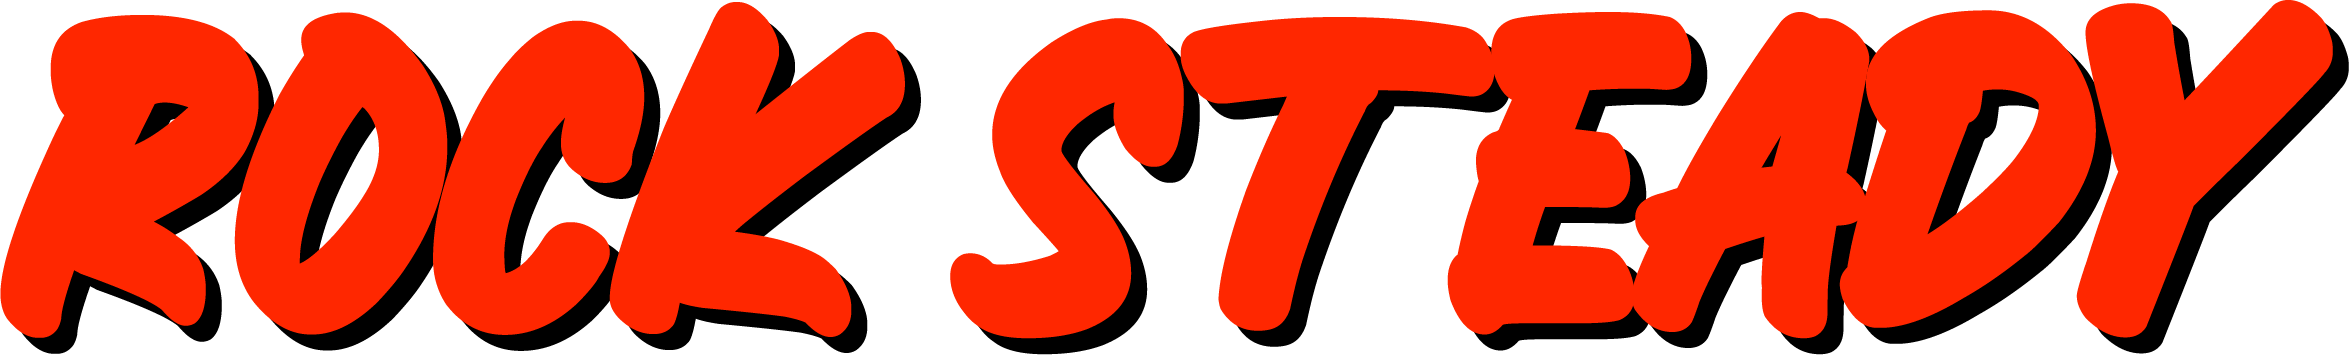
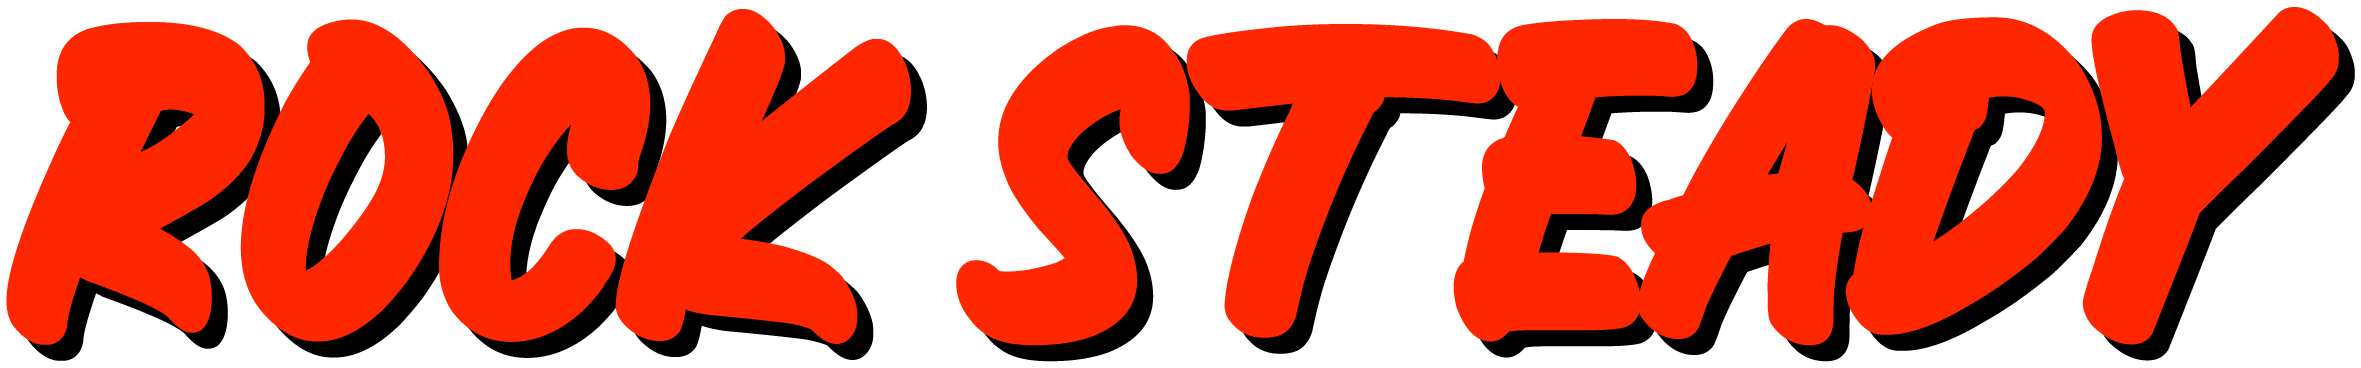
Add active-section nav, mobile menu, and full footer
- Highlight the current section in the nav via IntersectionObserver
- Add a mobile hamburger menu (desktop nav hidden below md)
- Replace the bare footer with logo, Facebook/Instagram/email links,
  and the kept slogan
- Extract shared Facebook/Instagram/Mail SVGs into SocialIcons

diff --git a/src/app/components/ShrinkingHeader.tsx b/src/app/components/ShrinkingHeader.tsx
@@ -4,14 +4,16 @@ import Image from "next/image";
 import { useEffect, useState } from "react";
 
 const navLinks = [
-  { href: "#shows", label: "Shows" },
-  { href: "#music", label: "Music" },
-  { href: "#photos", label: "Photos" },
-  { href: "#booking", label: "Booking" },
+  { href: "#shows", id: "shows", label: "Shows" },
+  { href: "#music", id: "music", label: "Music" },
+  { href: "#photos", id: "photos", label: "Photos" },
+  { href: "#booking", id: "booking", label: "Booking" },
 ];
 
 export function ShrinkingHeader() {
   const [isScrolled, setIsScrolled] = useState(false);
+  const [activeId, setActiveId] = useState("");
+  const [menuOpen, setMenuOpen] = useState(false);
 
   useEffect(() => {
     const updateHeader = () => {
@@ -23,6 +25,39 @@ export function ShrinkingHeader() {
 
     return () => window.removeEventListener("scroll", updateHeader);
   }, []);
+
+  useEffect(() => {
+    const sections = navLinks
+      .map((link) => document.getElementById(link.id))
+      .filter((el): el is HTMLElement => el !== null);
+
+    const observer = new IntersectionObserver(
+      (entries) => {
+        entries.forEach((entry) => {
+          if (entry.isIntersecting) {
+            setActiveId(entry.target.id);
+          }
+        });
+      },
+      { rootMargin: "-45% 0px -50% 0px", threshold: 0 },
+    );
+
+    sections.forEach((section) => observer.observe(section));
+
+    return () => observer.disconnect();
+  }, []);
+
+  // Close the mobile menu once the viewport grows to the desktop nav.
+  useEffect(() => {
+    if (!menuOpen) return;
+
+    const closeOnDesktop = () => {
+      if (window.innerWidth >= 768) setMenuOpen(false);
+    };
+
+    window.addEventListener("resize", closeOnDesktop);
+    return () => window.removeEventListener("resize", closeOnDesktop);
+  }, [menuOpen]);
 
   return (
     <header
@@ -73,21 +108,85 @@ export function ShrinkingHeader() {
 
         <nav
           aria-label="Main navigation"
-          className={`flex flex-wrap items-center justify-center gap-1 text-[0.7rem] font-black uppercase sm:gap-2 sm:text-xs ${
+          className={`hidden items-center justify-center gap-1 text-[0.7rem] font-black uppercase sm:gap-2 sm:text-xs md:flex ${
             isScrolled ? "max-w-[70vw]" : "max-w-full"
           }`}
         >
-          {navLinks.map((link) => (
-            <a
-              key={link.href}
-              href={link.href}
-              className="rounded-full border border-white/15 bg-black/35 px-3 py-2 text-white transition hover:border-[#ff2b1f] hover:bg-[#ff2b1f] focus:outline-none focus:ring-2 focus:ring-[#ffcf33]"
-            >
-              {link.label}
-            </a>
-          ))}
+          {navLinks.map((link) => {
+            const isActive = activeId === link.id;
+            return (
+              <a
+                key={link.href}
+                href={link.href}
+                aria-current={isActive ? "true" : undefined}
+                className={`rounded-full border px-3 py-2 transition focus:outline-none focus:ring-2 focus:ring-[#ffcf33] ${
+                  isActive
+                    ? "border-[#ff2b1f] bg-[#ff2b1f] text-white"
+                    : "border-white/15 bg-black/35 text-white hover:border-[#ff2b1f] hover:bg-[#ff2b1f]"
+                }`}
+              >
+                {link.label}
+              </a>
+            );
+          })}
         </nav>
+
+        <button
+          type="button"
+          aria-label={menuOpen ? "Close menu" : "Open menu"}
+          aria-expanded={menuOpen}
+          aria-controls="mobile-menu"
+          onClick={() => setMenuOpen((open) => !open)}
+          className="absolute right-4 top-4 flex h-10 w-10 items-center justify-center rounded-full border border-white/15 bg-black/40 text-white transition hover:border-[#ff2b1f] hover:bg-[#ff2b1f] focus:outline-none focus:ring-2 focus:ring-[#ffcf33] sm:right-6 md:hidden"
+        >
+          <svg
+            viewBox="0 0 24 24"
+            aria-hidden="true"
+            fill="none"
+            stroke="currentColor"
+            strokeWidth="2.5"
+            strokeLinecap="round"
+            className="h-5 w-5"
+          >
+            {menuOpen ? (
+              <path d="M6 6l12 12M18 6L6 18" />
+            ) : (
+              <path d="M4 7h16M4 12h16M4 17h16" />
+            )}
+          </svg>
+        </button>
       </div>
+
+      <nav
+        id="mobile-menu"
+        aria-label="Mobile navigation"
+        className={`absolute left-0 top-full w-full origin-top border-b border-white/10 bg-[#060606]/97 backdrop-blur-md transition-all duration-300 md:hidden ${
+          menuOpen
+            ? "pointer-events-auto translate-y-0 opacity-100"
+            : "pointer-events-none -translate-y-2 opacity-0"
+        }`}
+      >
+        <div className="flex flex-col gap-2 px-4 py-4 text-sm font-black uppercase sm:px-6">
+          {navLinks.map((link) => {
+            const isActive = activeId === link.id;
+            return (
+              <a
+                key={link.href}
+                href={link.href}
+                aria-current={isActive ? "true" : undefined}
+                onClick={() => setMenuOpen(false)}
+                className={`rounded-2xl border px-4 py-3 transition focus:outline-none focus:ring-2 focus:ring-[#ffcf33] ${
+                  isActive
+                    ? "border-[#ff2b1f] bg-[#ff2b1f] text-white"
+                    : "border-white/12 bg-black/35 text-white hover:border-[#ff2b1f] hover:bg-[#ff2b1f]"
+                }`}
+              >
+                {link.label}
+              </a>
+            );
+          })}
+        </div>
+      </nav>
     </header>
   );
 }

diff --git a/src/app/page.tsx b/src/app/page.tsx
@@ -1,5 +1,10 @@
 import Image from "next/image";
 import { ShrinkingHeader } from "./components/ShrinkingHeader";
+import {
+  FacebookIcon,
+  InstagramIcon,
+  MailIcon,
+} from "./components/SocialIcons";
 import { absoluteUrl, siteConfig } from "./seo";
 
 const gallery = [
@@ -360,13 +365,7 @@ export default function Home() {
                   aria-label="Rock Steady on Facebook"
                   className="inline-flex items-center gap-2 rounded-full bg-[#1877F2] px-5 py-3 text-sm font-black uppercase text-white transition hover:brightness-110 focus:outline-none focus:ring-2 focus:ring-[#ffcf33]"
                 >
-                  <svg
-                    viewBox="0 0 24 24"
-                    aria-hidden="true"
-                    className="h-5 w-5 fill-current"
-                  >
-                    <path d="M24 12.073C24 5.404 18.627 0 12 0S0 5.404 0 12.073C0 18.1 4.388 23.094 10.125 24v-8.437H7.078v-3.49h3.047V9.412c0-3.025 1.792-4.697 4.533-4.697 1.313 0 2.686.236 2.686.236v2.97h-1.513c-1.491 0-1.956.93-1.956 1.886v2.265h3.328l-.532 3.49h-2.796V24C19.612 23.094 24 18.1 24 12.073z" />
-                  </svg>
+                  <FacebookIcon className="h-5 w-5 fill-current" />
                   Facebook
                 </a>
                 <a
@@ -376,13 +375,7 @@ export default function Home() {
                   aria-label="Rock Steady on Instagram"
                   className="inline-flex items-center gap-2 rounded-full bg-gradient-to-tr from-[#feda75] via-[#d62976] to-[#4f5bd5] px-5 py-3 text-sm font-black uppercase text-white transition hover:brightness-110 focus:outline-none focus:ring-2 focus:ring-[#ffcf33]"
                 >
-                  <svg
-                    viewBox="0 0 24 24"
-                    aria-hidden="true"
-                    className="h-5 w-5 fill-current"
-                  >
-                    <path d="M12 2.163c3.204 0 3.584.012 4.85.07 3.252.148 4.771 1.691 4.919 4.919.058 1.265.069 1.645.069 4.849 0 3.205-.012 3.584-.069 4.849-.149 3.225-1.664 4.771-4.919 4.919-1.266.058-1.644.07-4.85.07-3.204 0-3.584-.012-4.849-.07-3.26-.149-4.771-1.699-4.919-4.92-.058-1.265-.07-1.644-.07-4.849 0-3.204.013-3.583.07-4.849.149-3.227 1.664-4.771 4.919-4.919 1.266-.057 1.645-.069 4.849-.069zM12 0C8.741 0 8.333.014 7.053.072 2.695.272.273 2.69.073 7.052.014 8.333 0 8.741 0 12c0 3.259.014 3.668.072 4.948.2 4.358 2.618 6.78 6.98 6.98C8.333 23.986 8.741 24 12 24c3.259 0 3.668-.014 4.948-.072 4.354-.2 6.782-2.618 6.979-6.98.059-1.28.073-1.689.073-4.948 0-3.259-.014-3.667-.072-4.947-.196-4.354-2.617-6.78-6.979-6.98C15.668.014 15.259 0 12 0zm0 5.838a6.162 6.162 0 100 12.324 6.162 6.162 0 000-12.324zM12 16a4 4 0 110-8 4 4 0 010 8zm6.406-11.845a1.44 1.44 0 100 2.881 1.44 1.44 0 000-2.881z" />
-                  </svg>
+                  <InstagramIcon className="h-5 w-5 fill-current" />
                   Instagram
                 </a>
               </div>
@@ -391,8 +384,57 @@ export default function Home() {
         </section>
       </main>
 
-      <footer className="bg-black px-4 py-8 text-center text-sm font-bold text-white/58 sm:px-6 lg:px-8">
-        <p>Rock Steady - Phoenix Valley cover band - It&apos;s a rock party.</p>
+      <footer className="border-t border-white/10 bg-black px-4 py-12 sm:px-6 lg:px-8">
+        <div className="mx-auto flex max-w-7xl flex-col items-center gap-6 text-center">
+          <div className="relative h-9 w-44">
+            <Image
+              src="/images/rock-steady-horizontal.png"
+              alt="Rock Steady"
+              fill
+              sizes="176px"
+              className="object-contain object-center"
+            />
+          </div>
+
+          <div className="flex items-center gap-4">
+            <a
+              href={siteConfig.facebookUrl}
+              target="_blank"
+              rel="noreferrer"
+              aria-label="Rock Steady on Facebook"
+              className="flex h-11 w-11 items-center justify-center rounded-full border border-white/15 bg-white/5 text-white transition hover:border-[#ffcf33] hover:text-[#ffcf33] focus:outline-none focus:ring-2 focus:ring-[#ffcf33]"
+            >
+              <FacebookIcon className="h-5 w-5 fill-current" />
+            </a>
+            <a
+              href={siteConfig.instagramUrl}
+              target="_blank"
+              rel="noreferrer"
+              aria-label="Rock Steady on Instagram"
+              className="flex h-11 w-11 items-center justify-center rounded-full border border-white/15 bg-white/5 text-white transition hover:border-[#ffcf33] hover:text-[#ffcf33] focus:outline-none focus:ring-2 focus:ring-[#ffcf33]"
+            >
+              <InstagramIcon className="h-5 w-5 fill-current" />
+            </a>
+            <a
+              href={`mailto:${siteConfig.email}`}
+              aria-label="Email Rock Steady"
+              className="flex h-11 w-11 items-center justify-center rounded-full border border-white/15 bg-white/5 text-white transition hover:border-[#ffcf33] hover:text-[#ffcf33] focus:outline-none focus:ring-2 focus:ring-[#ffcf33]"
+            >
+              <MailIcon className="h-5 w-5 fill-current" />
+            </a>
+          </div>
+
+          <a
+            href={`mailto:${siteConfig.email}`}
+            className="text-sm font-bold text-white/70 transition hover:text-[#ffcf33]"
+          >
+            {siteConfig.email}
+          </a>
+
+          <p className="text-sm font-bold text-white/55">
+            Rock Steady - Phoenix Valley cover band - It&apos;s a rock party.
+          </p>
+        </div>
       </footer>
     </>
   );

diff --git a/src/app/components/SocialIcons.tsx b/src/app/components/SocialIcons.tsx
@@ -1,0 +1,27 @@
+type IconProps = {
+  className?: string;
+};
+
+export function FacebookIcon({ className }: IconProps) {
+  return (
+    <svg viewBox="0 0 24 24" aria-hidden="true" className={className}>
+      <path d="M24 12.073C24 5.404 18.627 0 12 0S0 5.404 0 12.073C0 18.1 4.388 23.094 10.125 24v-8.437H7.078v-3.49h3.047V9.412c0-3.025 1.792-4.697 4.533-4.697 1.313 0 2.686.236 2.686.236v2.97h-1.513c-1.491 0-1.956.93-1.956 1.886v2.265h3.328l-.532 3.49h-2.796V24C19.612 23.094 24 18.1 24 12.073z" />
+    </svg>
+  );
+}
+
+export function InstagramIcon({ className }: IconProps) {
+  return (
+    <svg viewBox="0 0 24 24" aria-hidden="true" className={className}>
+      <path d="M12 2.163c3.204 0 3.584.012 4.85.07 3.252.148 4.771 1.691 4.919 4.919.058 1.265.069 1.645.069 4.849 0 3.205-.012 3.584-.069 4.849-.149 3.225-1.664 4.771-4.919 4.919-1.266.058-1.644.07-4.85.07-3.204 0-3.584-.012-4.849-.07-3.26-.149-4.771-1.699-4.919-4.92-.058-1.265-.07-1.644-.07-4.849 0-3.204.013-3.583.07-4.849.149-3.227 1.664-4.771 4.919-4.919 1.266-.057 1.645-.069 4.849-.069zM12 0C8.741 0 8.333.014 7.053.072 2.695.272.273 2.69.073 7.052.014 8.333 0 8.741 0 12c0 3.259.014 3.668.072 4.948.2 4.358 2.618 6.78 6.98 6.98C8.333 23.986 8.741 24 12 24c3.259 0 3.668-.014 4.948-.072 4.354-.2 6.782-2.618 6.979-6.98.059-1.28.073-1.689.073-4.948 0-3.259-.014-3.667-.072-4.947-.196-4.354-2.617-6.78-6.979-6.98C15.668.014 15.259 0 12 0zm0 5.838a6.162 6.162 0 100 12.324 6.162 6.162 0 000-12.324zM12 16a4 4 0 110-8 4 4 0 010 8zm6.406-11.845a1.44 1.44 0 100 2.881 1.44 1.44 0 000-2.881z" />
+    </svg>
+  );
+}
+
+export function MailIcon({ className }: IconProps) {
+  return (
+    <svg viewBox="0 0 24 24" aria-hidden="true" className={className}>
+      <path d="M1.5 5.25A2.25 2.25 0 013.75 3h16.5a2.25 2.25 0 012.25 2.25v.4l-10.5 6.3-10.5-6.3v-.4zm0 2.752V18.75A2.25 2.25 0 003.75 21h16.5a2.25 2.25 0 002.25-2.25V8.002l-10.114 6.069a1.5 1.5 0 01-1.544 0L1.5 8.002z" />
+    </svg>
+  );
+}